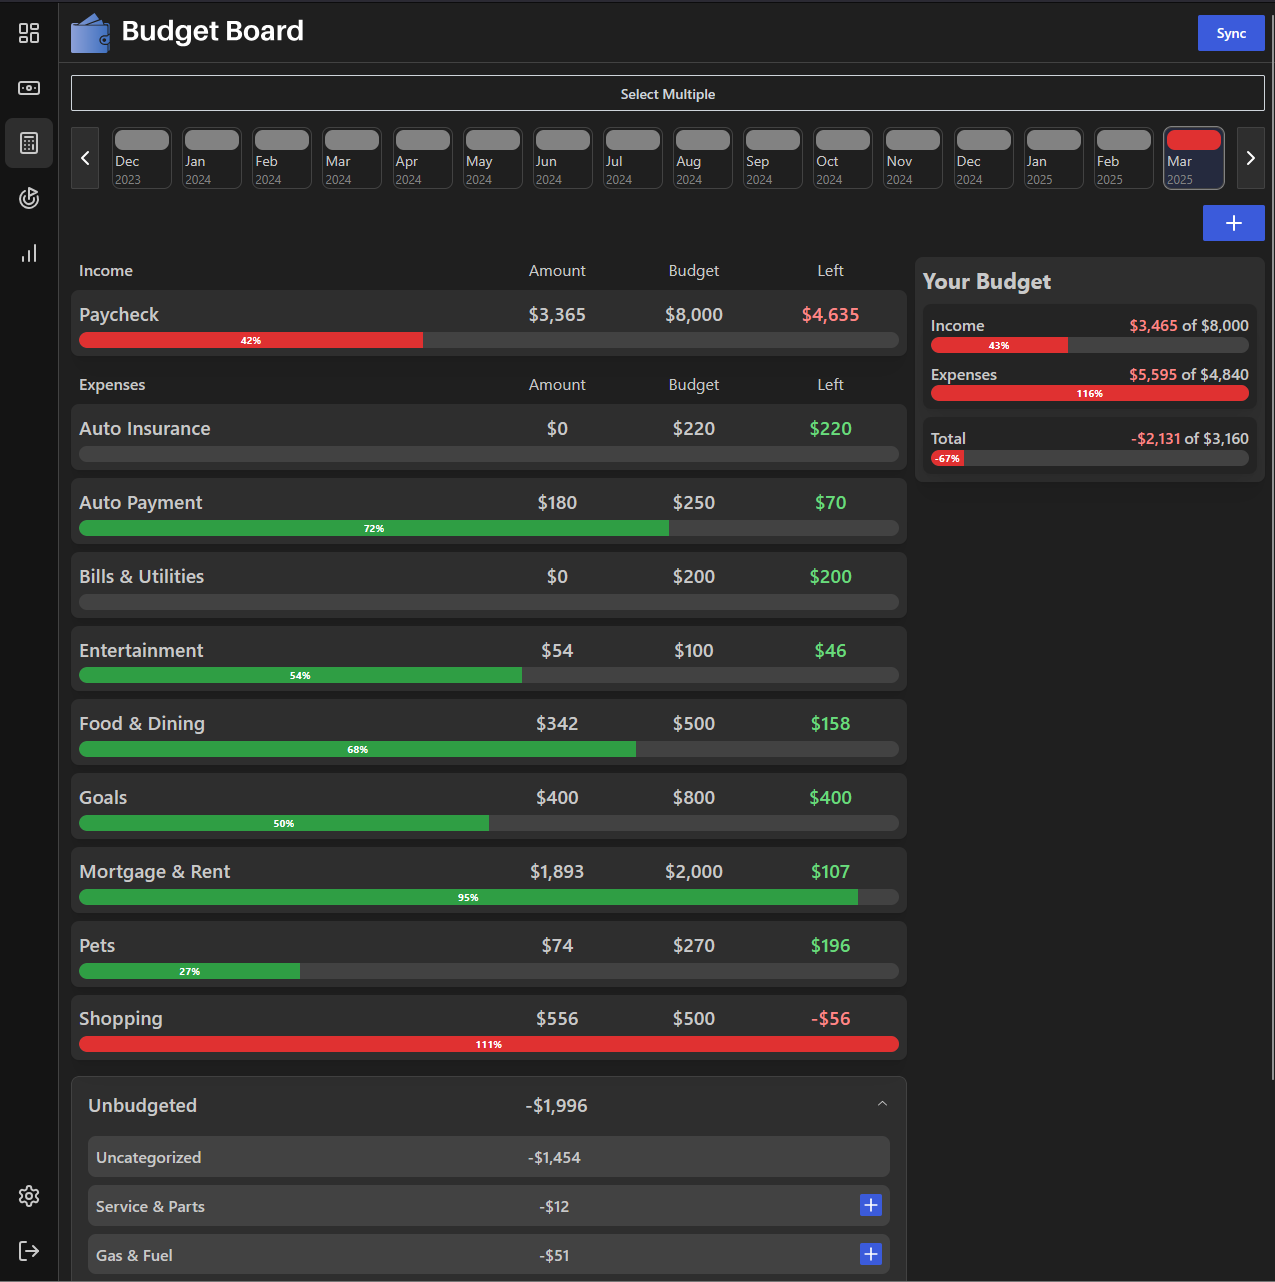
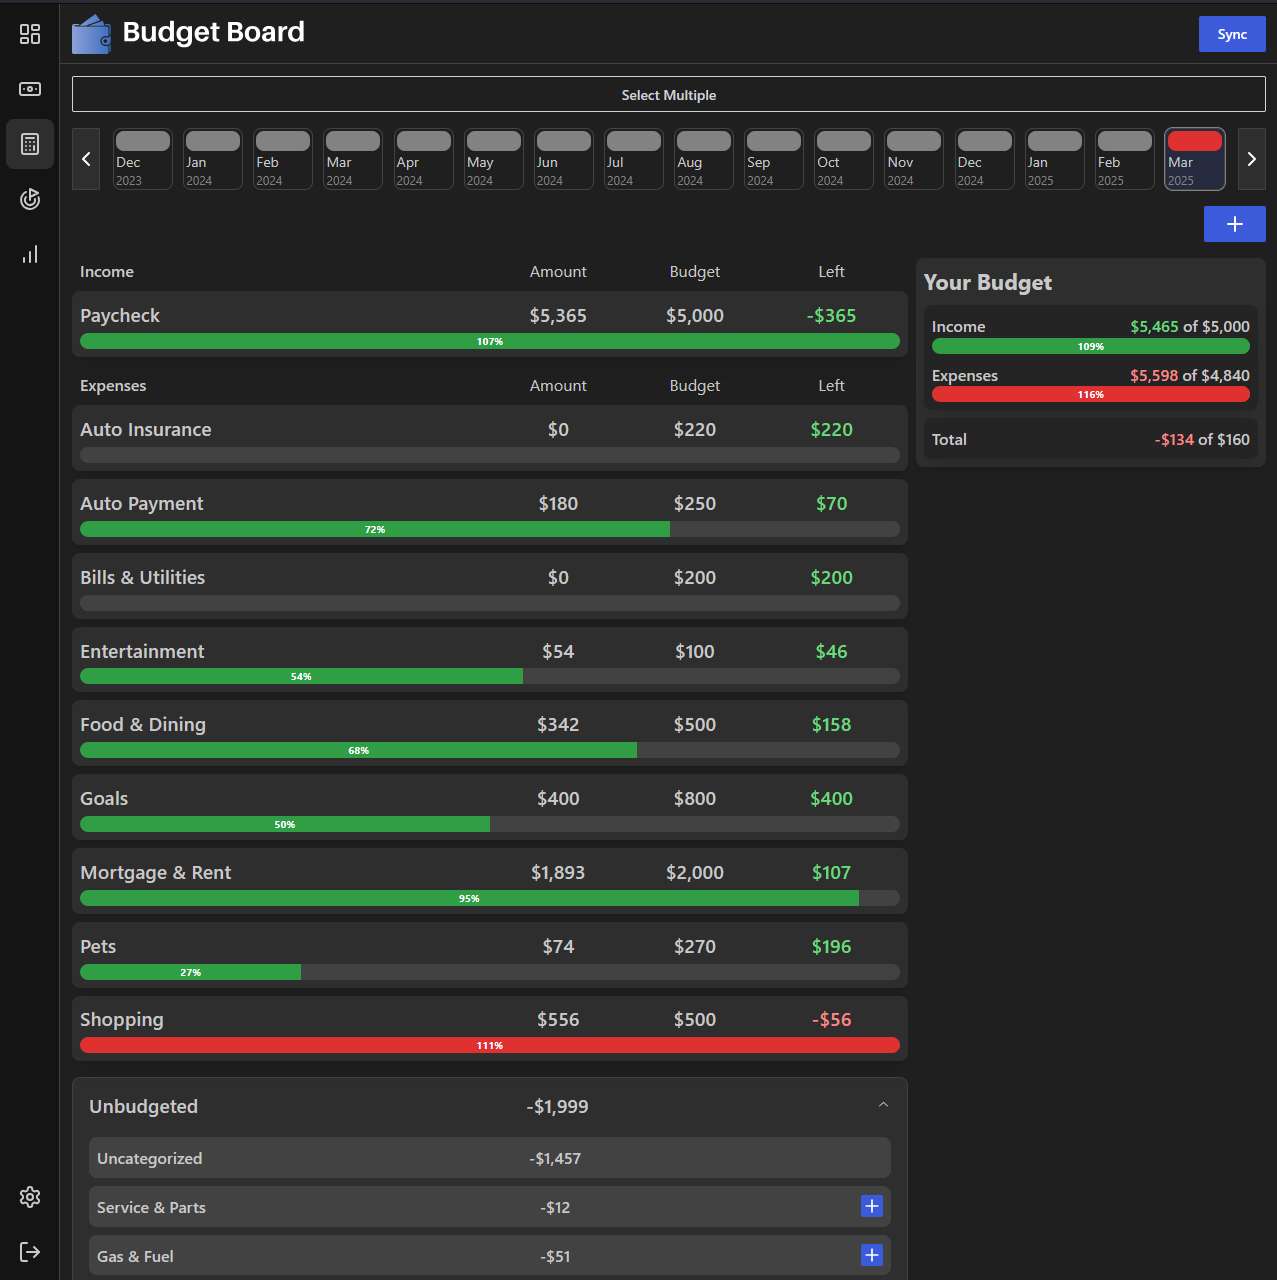
Fix budget total (#369)
* change budget total behavior

* fix screenshot

* update compose for release

diff --git a/client/src/app/Authorized/PageContent/Budgets/BudgetsContent/BudgetTotalCard/BudgetTotalItem/BudgetTotalItem.tsx b/client/src/app/Authorized/PageContent/Budgets/BudgetsContent/BudgetTotalCard/BudgetTotalItem/BudgetTotalItem.tsx
@@ -9,6 +9,7 @@ interface BudgetTotalItemProps {
   amount: number;
   total: number;
   isIncome: boolean;
+  hideProgress?: boolean;
 }
 
 const BudgetTotalItem = (props: BudgetTotalItemProps): React.ReactNode => {
@@ -25,7 +26,7 @@ const BudgetTotalItem = (props: BudgetTotalItemProps): React.ReactNode => {
         <Flex gap="0.25rem">
           <Text
             className={classes.text}
-            c={getBudgetValueColor(percentComplete, props.isIncome)}
+            c={getBudgetValueColor(props.amount, props.total, props.isIncome)}
           >
             {convertNumberToCurrency(
               props.amount * (props.isIncome ? 1 : -1),
@@ -38,14 +39,20 @@ const BudgetTotalItem = (props: BudgetTotalItemProps): React.ReactNode => {
           </Text>
         </Flex>
       </Group>
-      <Progress.Root size={16} radius="xl">
-        <Progress.Section
-          value={percentComplete > 100 ? 100 : percentComplete}
-          color={getBudgetValueColor(percentComplete, props.isIncome)}
-        >
-          <Progress.Label>{percentComplete.toFixed(0)}%</Progress.Label>
-        </Progress.Section>
-      </Progress.Root>
+      {!props.hideProgress && props.total > 0 && (
+        <Progress.Root size={16} radius="xl">
+          <Progress.Section
+            value={percentComplete > 100 ? 100 : percentComplete}
+            color={getBudgetValueColor(
+              props.amount,
+              props.total,
+              props.isIncome
+            )}
+          >
+            <Progress.Label>{percentComplete.toFixed(0)}%</Progress.Label>
+          </Progress.Section>
+        </Progress.Root>
+      )}
     </Stack>
   );
 };

diff --git a/client/src/app/Authorized/PageContent/Budgets/BudgetsContent/BudgetsGroup/BudgetCard/BudgetCard.tsx b/client/src/app/Authorized/PageContent/Budgets/BudgetsContent/BudgetsGroup/BudgetCard/BudgetCard.tsx
@@ -174,7 +174,7 @@ const BudgetCard = (props: BudgetCardProps): React.ReactNode => {
             <Flex className={classes.numberContainer}>
               <Text
                 className={classes.text}
-                c={getBudgetValueColor(percentComplete, props.isIncome)}
+                c={getBudgetValueColor(props.amount, limit, props.isIncome)}
               >
                 {convertNumberToCurrency(
                   Math.round(limit - props.amount * (props.isIncome ? 1 : -1)),
@@ -187,7 +187,7 @@ const BudgetCard = (props: BudgetCardProps): React.ReactNode => {
         <Progress.Root size={16} radius="xl">
           <Progress.Section
             value={percentComplete}
-            color={getBudgetValueColor(percentComplete, props.isIncome)}
+            color={getBudgetValueColor(props.amount, limit, props.isIncome)}
           >
             <Progress.Label>{percentComplete.toFixed(0)}%</Progress.Label>
           </Progress.Section>

diff --git a/client/src/helpers/budgets.ts b/client/src/helpers/budgets.ts
@@ -137,16 +137,18 @@ export const sumBudgetAmounts = (budgetData: IBudget[]): number => {
  * @returns {string} - The color ("red" or "green") to visually represent the budget status.
  */
 export const getBudgetValueColor = (
-  percentComplete: number,
+  amount: number,
+  total: number,
   isIncome: boolean
 ) => {
   if (isIncome) {
-    if (percentComplete < 100) {
+    if (amount < total) {
       return "red";
     }
     return "green";
   }
-  if (percentComplete <= 100) {
+
+  if (amount * -1 <= total) {
     return "green";
   }
   return "red";

diff --git a/client/src/app/Authorized/PageContent/Budgets/BudgetsContent/BudgetTotalCard/BudgetTotalCard.tsx b/client/src/app/Authorized/PageContent/Budgets/BudgetsContent/BudgetTotalCard/BudgetTotalCard.tsx
@@ -73,6 +73,7 @@ const BudgetTotalCard = (props: BudgetTotalCardProps): React.ReactNode => {
             amount={totalTransactionsTotal}
             total={totalBudgetsTotal}
             isIncome
+            hideProgress
           />
         </Card>
       )}
